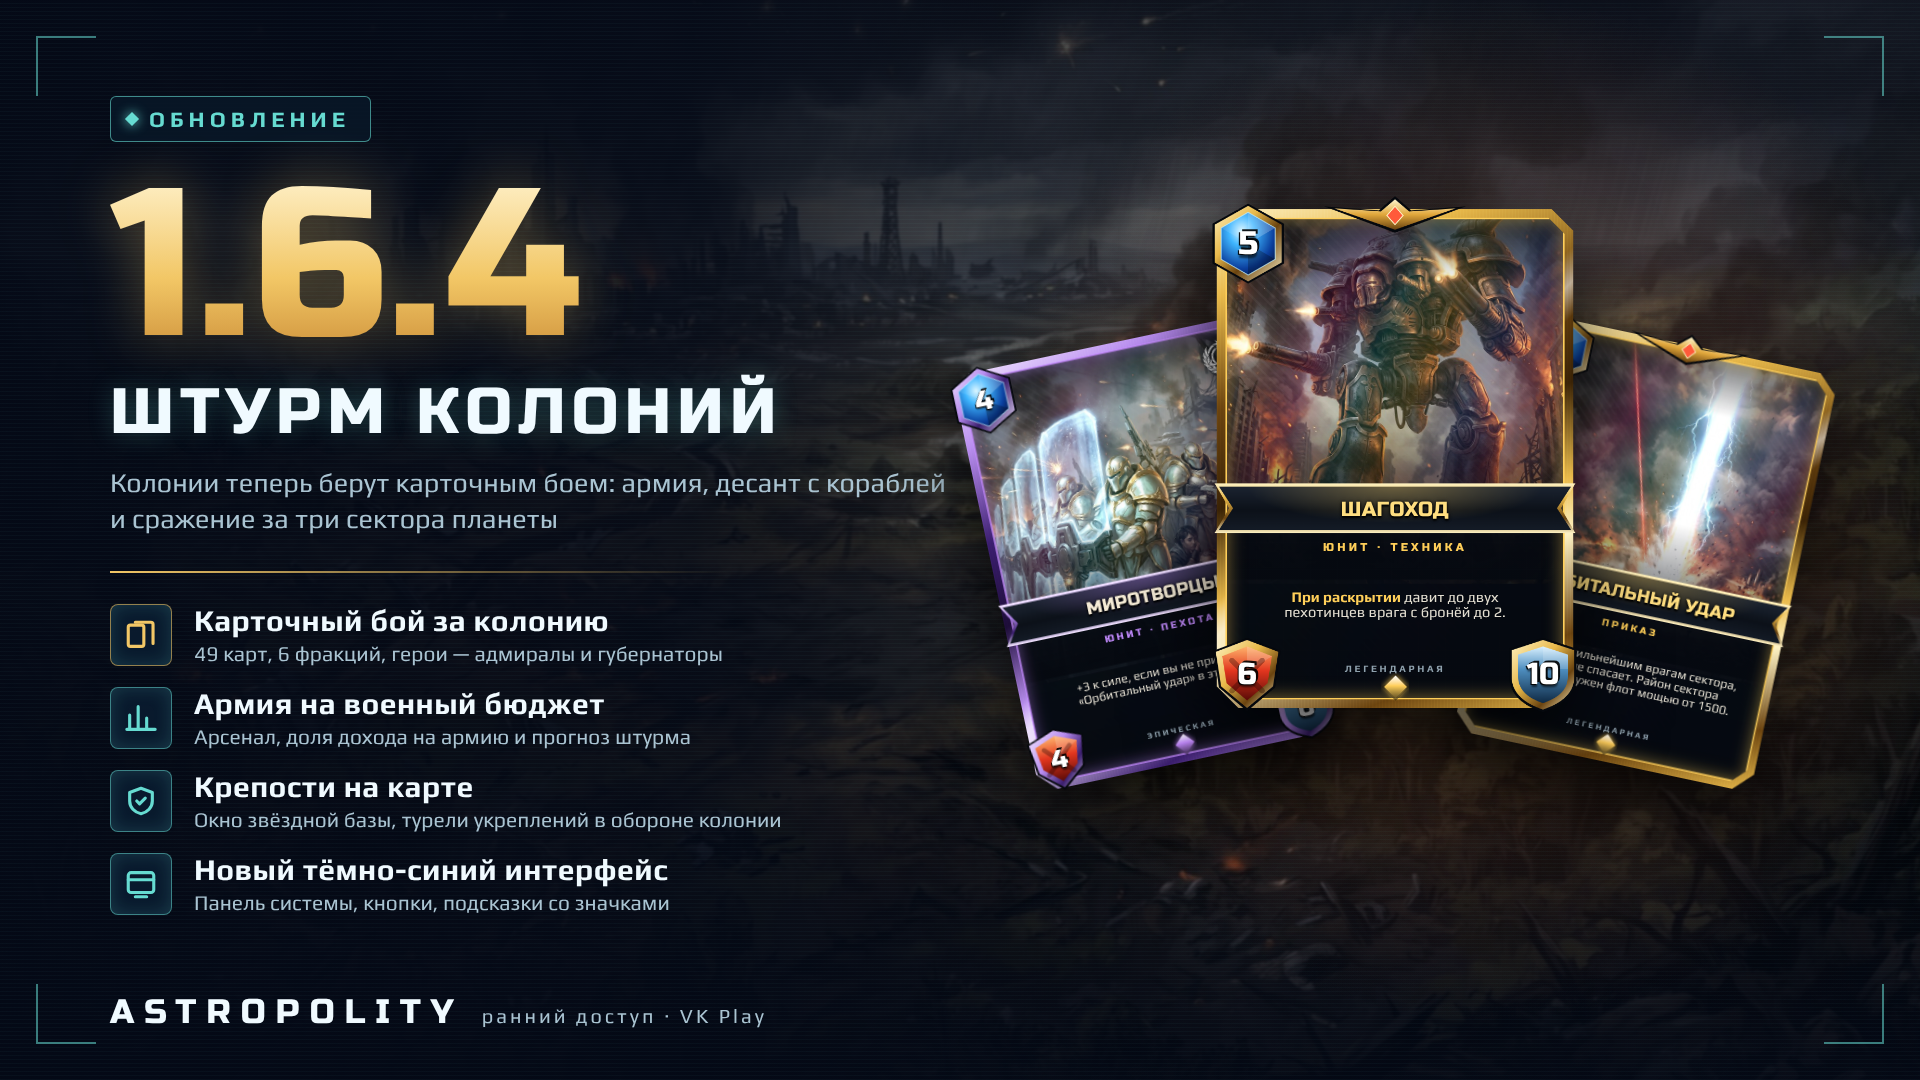
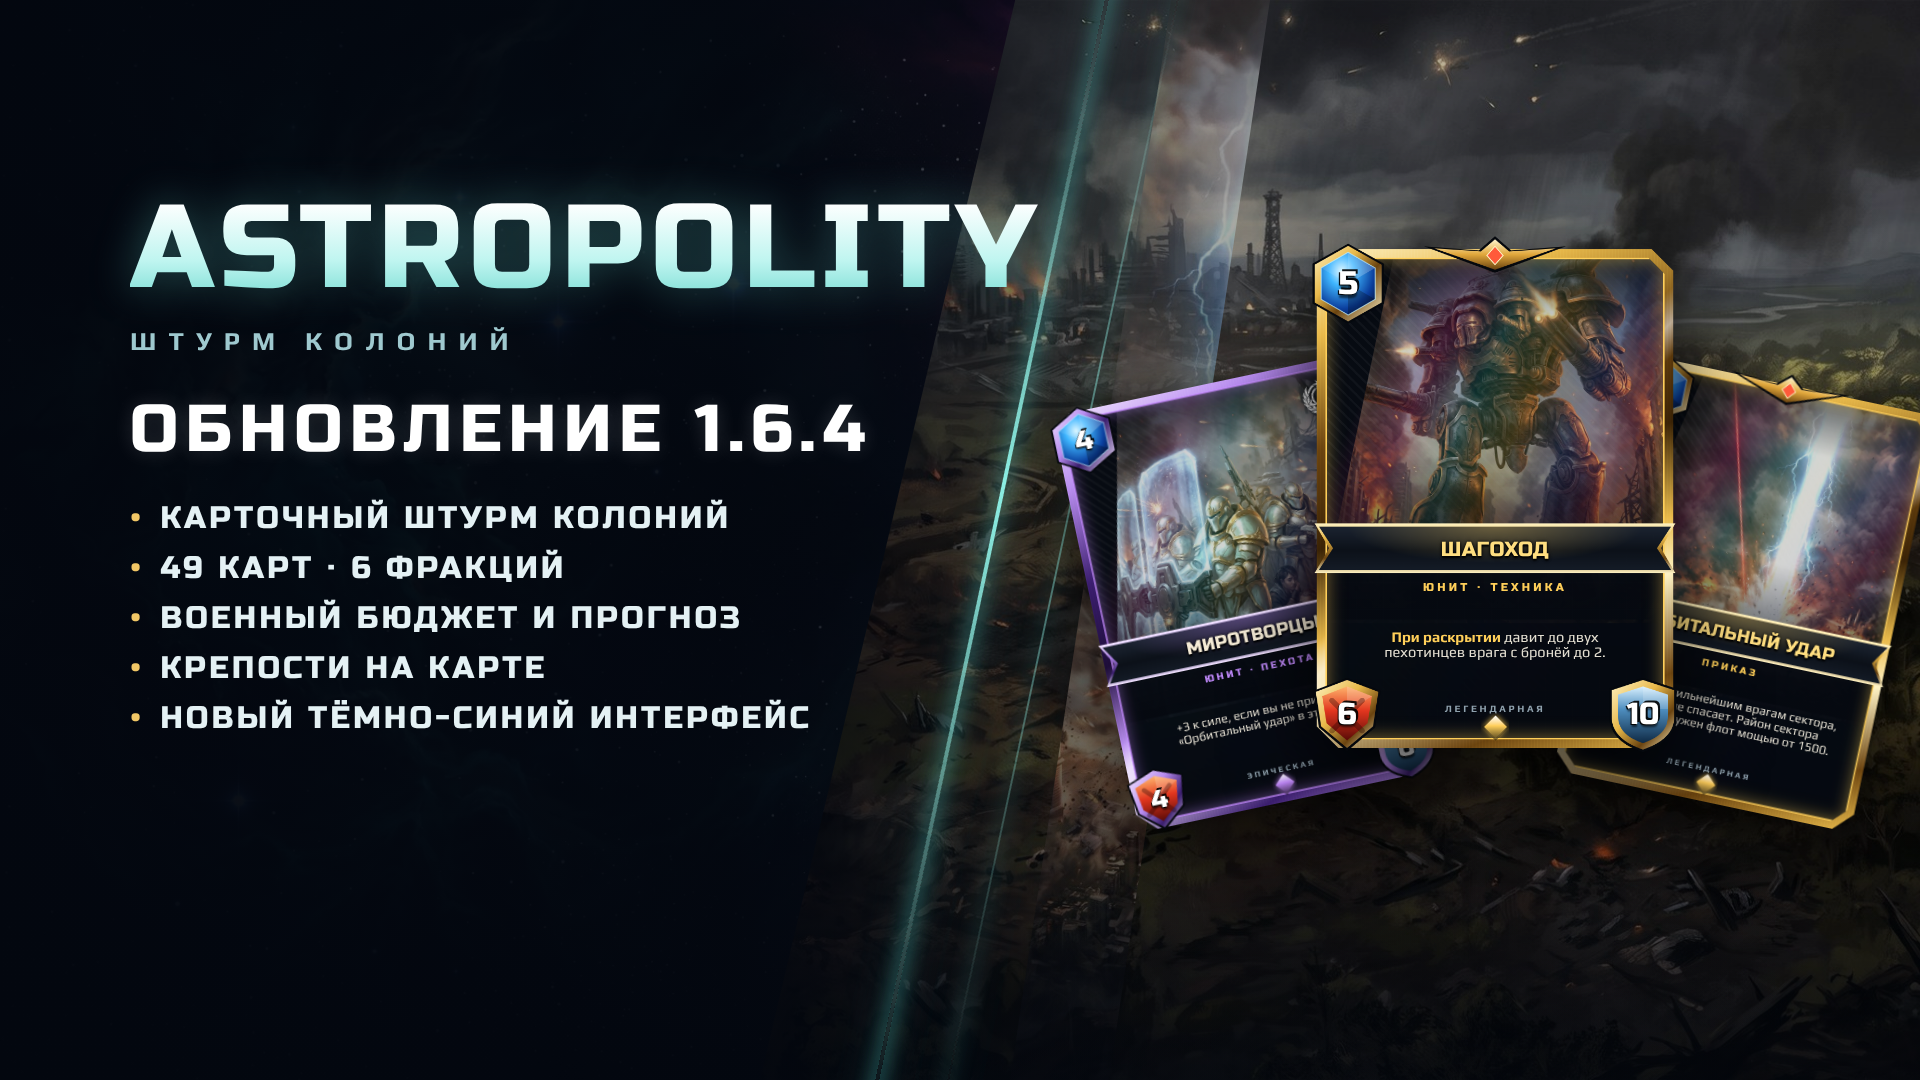
Обложка новости 1.6.4 в стиле прошлых новостей VK Play: логотип, подзаголовок, список капсом, арт за косым срезом
Claude-Session: https://claude.ai/code/session_01MBQ4JGpUh1c6nHPDeTgt1b

diff --git a/Tools/news/cover_1.6.4.html b/Tools/news/cover_1.6.4.html
@@ -1,45 +1,37 @@
 <!doctype html>
 <html lang="ru"><head><meta charset="utf-8">
-<!-- Обложка новости об обновлении 1.6.4 (1920×1080). Рендер: node Tools/news/render.js cover_1.6.4 -->
+<!-- Обложка новости об обновлении 1.6.4 (1920×1080) в стиле прошлых новостей VK Play: слева логотип и список,
+     справа арт за косыми срезами и карты как в игре. Рендер: node Tools/news/render.js cover_1.6.4 -->
 <style>
 @font-face { font-family: Play; src: url(../../Assets/Resources/Fonts/Play-Regular.ttf); }
 @font-face { font-family: Play; font-weight: 700; src: url(../../Assets/Resources/Fonts/Play-Bold.ttf); }
 @font-face { font-family: Russo; src: url(../../Assets/Resources/Fonts/RussoOne-Regular.ttf); }
-:root { --cyan: #66DBD1; --gold: #F2C766; --navy: #050B18; --text: #F0FAFF; --muted: #AAC4D2; }
 * { box-sizing: border-box; margin: 0; }
-body { width: 1920px; height: 1080px; overflow: hidden; background: var(--navy); font-family: Play, sans-serif; color: var(--text); }
-#cover { position: relative; width: 1920px; height: 1080px; overflow: hidden; }
-.bg { position: absolute; inset: -20px; background: url(../../Assets/Resources/UI/Cards/table_continental.jpg) center/cover; filter: saturate(0.95) brightness(0.9) blur(1px); }
-.grade { position: absolute; inset: 0;
-  background:
-    linear-gradient(90deg, rgba(4,9,22,0.97) 0%, rgba(4,9,22,0.88) 36%, rgba(4,9,22,0.25) 62%, rgba(4,9,22,0.35) 100%),
-    linear-gradient(180deg, rgba(4,9,22,0.55) 0%, rgba(4,9,22,0) 30%, rgba(4,9,22,0) 70%, rgba(4,9,22,0.85) 100%); }
-.glow { position: absolute; width: 1100px; height: 1100px; right: -120px; top: -40px; border-radius: 50%;
-  background: radial-gradient(circle, rgba(242,199,102,0.30) 0%, rgba(242,120,60,0.12) 32%, rgba(4,9,22,0) 66%); }
-.scan { position: absolute; inset: 0; background: repeating-linear-gradient(0deg, rgba(102,219,209,0.035) 0 1px, transparent 1px 4px); }
-
-/* ---------- левая колонка */
-.left { position: absolute; left: 110px; top: 96px; width: 860px; }
-.tag { display: inline-flex; align-items: center; gap: 12px; padding: 9px 20px 9px 16px; border: 1.5px solid rgba(102,219,209,0.6);
-  border-radius: 6px; background: rgba(8,24,40,0.85); font-weight: 700; font-size: 22px; letter-spacing: 5px; color: var(--cyan); }
-.tag i { width: 10px; height: 10px; background: var(--cyan); transform: rotate(45deg); box-shadow: 0 0 12px var(--cyan); }
-.ver { font-family: Russo; font-size: 210px; line-height: 0.95; margin-top: 26px; letter-spacing: 4px;
-  background: linear-gradient(180deg, #FFF3CF 0%, #F2C766 55%, #C98A35 100%); -webkit-background-clip: text; color: transparent;
-  filter: drop-shadow(0 0 28px rgba(242,199,102,0.35)); }
-.title { font-family: Russo; font-size: 64px; letter-spacing: 6px; margin-top: 6px; text-shadow: 0 0 24px rgba(102,219,209,0.25); }
-.sub { font-size: 27px; color: var(--muted); margin-top: 14px; line-height: 1.35; }
-.line { height: 2px; width: 620px; margin: 34px 0 30px; background: linear-gradient(90deg, var(--gold), rgba(242,199,102,0)); }
-.items { display: flex; flex-direction: column; gap: 20px; }
-.item { display: flex; align-items: center; gap: 22px; }
-.ico { width: 62px; height: 62px; flex: none; border-radius: 8px; border: 1.5px solid rgba(102,219,209,0.55); background: rgba(10,28,48,0.9);
-  display: grid; place-items: center; box-shadow: 0 0 18px rgba(102,219,209,0.18) inset; }
-.ico svg { width: 34px; height: 34px; stroke: var(--cyan); fill: none; stroke-width: 2.2; stroke-linecap: round; stroke-linejoin: round; }
-.item.gold .ico { border-color: rgba(242,199,102,0.6); } .item.gold .ico svg { stroke: var(--gold); }
-.it b { display: block; font-size: 30px; font-weight: 700; letter-spacing: 0.5px; }
-.it span { display: block; font-size: 21px; color: var(--muted); margin-top: 3px; }
-
+body { width: 1920px; height: 1080px; overflow: hidden; background: #03070F; font-family: Play, sans-serif; color: #EAF6FA; }
+#cover { position: relative; width: 1920px; height: 1080px; overflow: hidden; background: #03070F; }
+.space { position: absolute; inset: 0; background: url(../../Assets/Resources/Menu/menu_bg.jpg) 20% 40%/cover; filter: brightness(0.55) saturate(1.1); }
+/* Арт справа за косым срезом */
+.art { position: absolute; top: 0; bottom: 0; left: 760px; right: 0; background: url(../../Assets/Resources/UI/Cards/table_continental.jpg) center 40%/cover;
+  clip-path: polygon(22% 0, 100% 0, 100% 100%, 0 100%); filter: brightness(0.8) saturate(1.05); }
+.art2 { position: absolute; top: 0; bottom: 0; left: 1010px; width: 260px; background: url(../../Assets/Resources/UI/Cards/O2.jpg) center 30%/cover;
+  clip-path: polygon(62% 0, 100% 0, 38% 100%, 0 100%); opacity: 0.55; filter: brightness(0.9); }
+.fade { position: absolute; inset: 0; background: linear-gradient(90deg, rgba(3,7,15,0.96) 0%, rgba(3,7,15,0.88) 38%, rgba(3,7,15,0.15) 60%, rgba(3,7,15,0) 100%),
+  linear-gradient(0deg, rgba(3,7,15,0.7), rgba(3,7,15,0) 30%); }
+.slash { position: absolute; top: -40px; bottom: -40px; width: 4px; background: linear-gradient(180deg, rgba(120,240,230,0), #8FF5EA 45%, rgba(120,240,230,0));
+  box-shadow: 0 0 18px #5FE6DA, 0 0 40px rgba(95,230,218,0.6); transform: skewX(-12deg); }
+.sl1 { left: 990px; } .sl2 { left: 1062px; width: 2px; opacity: 0.6; }
+/* Текст слева — как на прошлых обложках */
+.left { position: absolute; left: 130px; top: 190px; }
+.logo { font-family: Russo; font-size: 118px; letter-spacing: 6px; line-height: 1;
+  background: linear-gradient(180deg, #FFFFFF 10%, #BFF5F0 60%, #6FD8CF 100%); -webkit-background-clip: text; color: transparent;
+  filter: drop-shadow(0 0 22px rgba(102,219,209,0.35)); }
+.kicker { font-family: Play; font-weight: 700; font-size: 26px; letter-spacing: 12px; color: #9FC9CF; margin-top: 18px; }
+.ver { font-family: Russo; font-size: 66px; letter-spacing: 7px; margin-top: 34px; color: #FFFFFF; text-shadow: 0 0 20px rgba(255,255,255,0.15); }
+.list { margin-top: 30px; display: flex; flex-direction: column; gap: 12px; }
+.list div { font-family: Russo; font-size: 31px; letter-spacing: 3px; color: #E4F1F4; }
+.list div::before { content: '•'; color: #F2C766; margin-right: 16px; }
 /* ---------- веер карт: карта собрана из тех же слоёв, что CardView в игре (макет 330×462) */
-.fan { position: absolute; left: 975px; top: 110px; width: 840px; height: 800px; }
+.fan { position: absolute; left: 1075px; top: 150px; width: 840px; height: 800px; z-index: 4; }
 .slot { position: absolute; left: 255px; top: 150px; width: 330px; height: 462px; transform-origin: 50% 100%; }
 .card { position: absolute; inset: 0; filter: drop-shadow(0 30px 40px rgba(0,0,0,0.75)); }
 .card > * { position: absolute; }
@@ -68,38 +60,23 @@ body { width: 1920px; height: 1080px; overflow: hidden; background: var(--navy);
 .s2 { transform: translateY(-14px) scale(1.08); z-index: 5; }
 .s3 { transform: translateX(215px) rotate(12deg) translateY(40px) scale(0.92); z-index: 1; }
 
-.foot { position: absolute; left: 110px; right: 110px; bottom: 48px; display: flex; justify-content: space-between; align-items: center; }
-.logo { font-family: Russo; font-size: 34px; letter-spacing: 10px; }
-.logo small { font-family: Play; font-size: 20px; letter-spacing: 3px; color: var(--muted); margin-left: 18px; }
-.corner { position: absolute; width: 60px; height: 60px; border-color: rgba(102,219,209,0.55); border-style: solid; }
-.tl { left: 36px; top: 36px; border-width: 2px 0 0 2px; } .tr { right: 36px; top: 36px; border-width: 2px 2px 0 0; }
-.bl { left: 36px; bottom: 36px; border-width: 0 0 2px 2px; } .br { right: 36px; bottom: 36px; border-width: 0 2px 2px 0; }
 </style></head>
 <body><div id="cover">
-  <div class="bg"></div><div class="grade"></div><div class="glow"></div><div class="scan"></div>
-  <div class="corner tl"></div><div class="corner tr"></div><div class="corner bl"></div><div class="corner br"></div>
-
+  <div class="space"></div><div class="art"></div><div class="art2"></div><div class="fade"></div>
+  <div class="slash sl1"></div><div class="slash sl2"></div>
   <div class="left">
-    <div class="tag"><i></i>ОБНОВЛЕНИЕ</div>
-    <div class="ver">1.6.4</div>
-    <div class="title">ШТУРМ КОЛОНИЙ</div>
-    <div class="sub">Колонии теперь берут карточным боем: армия, десант с кораблей<br>и сражение за три сектора планеты</div>
-    <div class="line"></div>
-    <div class="items">
-      <div class="item gold"><div class="ico"><svg viewBox="0 0 24 24"><rect x="3" y="5" width="11" height="15" rx="1.5"/><path d="M8 3h11a1.5 1.5 0 0 1 1.5 1.5V18"/></svg></div>
-        <div class="it"><b>Карточный бой за колонию</b><span>49 карт, 6 фракций, герои — адмиралы и губернаторы</span></div></div>
-      <div class="item"><div class="ico"><svg viewBox="0 0 24 24"><path d="M4 20V10M10 20V4M16 20v-8M22 20H2"/></svg></div>
-        <div class="it"><b>Армия на военный бюджет</b><span>Арсенал, доля дохода на армию и прогноз штурма</span></div></div>
-      <div class="item"><div class="ico"><svg viewBox="0 0 24 24"><path d="M12 3l8 3v6c0 4.5-3.4 8-8 9-4.6-1-8-4.5-8-9V6z"/><path d="M9 12l2 2 4-4"/></svg></div>
-        <div class="it"><b>Крепости на карте</b><span>Окно звёздной базы, турели укреплений в обороне колонии</span></div></div>
-      <div class="item"><div class="ico"><svg viewBox="0 0 24 24"><rect x="3" y="4" width="18" height="14" rx="2"/><path d="M3 9h18M8 21h8"/></svg></div>
-        <div class="it"><b>Новый тёмно-синий интерфейс</b><span>Панель системы, кнопки, подсказки со значками</span></div></div>
+    <div class="logo">ASTROPOLITY</div>
+    <div class="kicker">ШТУРМ КОЛОНИЙ</div>
+    <div class="ver">ОБНОВЛЕНИЕ 1.6.4</div>
+    <div class="list">
+      <div>КАРТОЧНЫЙ ШТУРМ КОЛОНИЙ</div>
+      <div>49 КАРТ · 6 ФРАКЦИЙ</div>
+      <div>ВОЕННЫЙ БЮДЖЕТ И ПРОГНОЗ</div>
+      <div>КРЕПОСТИ НА КАРТЕ</div>
+      <div>НОВЫЙ ТЁМНО-СИНИЙ ИНТЕРФЕЙС</div>
     </div>
   </div>
-
   <div class="fan" id="fan"></div>
-
-  <div class="foot"><div class="logo">ASTROPOLITY<small>ранний доступ · VK Play</small></div></div>
 </div>
 <script>
 const R = '../../Assets/Resources/UI/';
